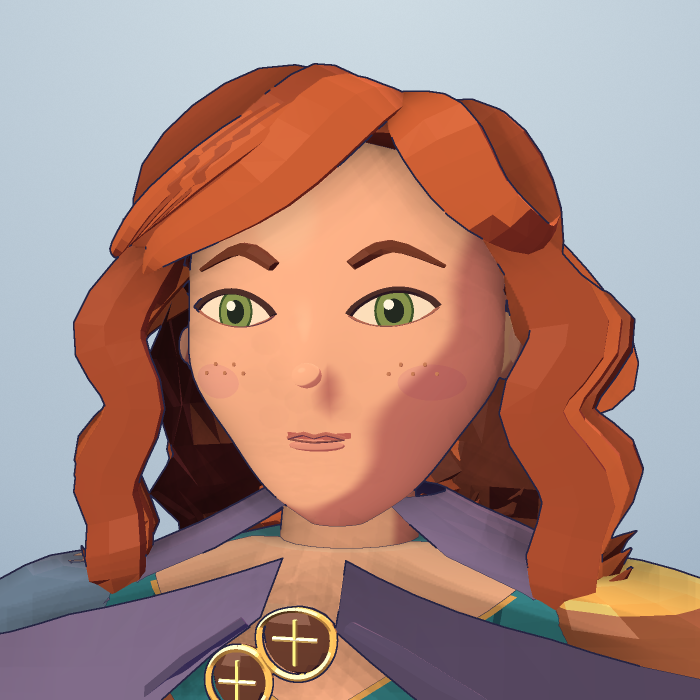
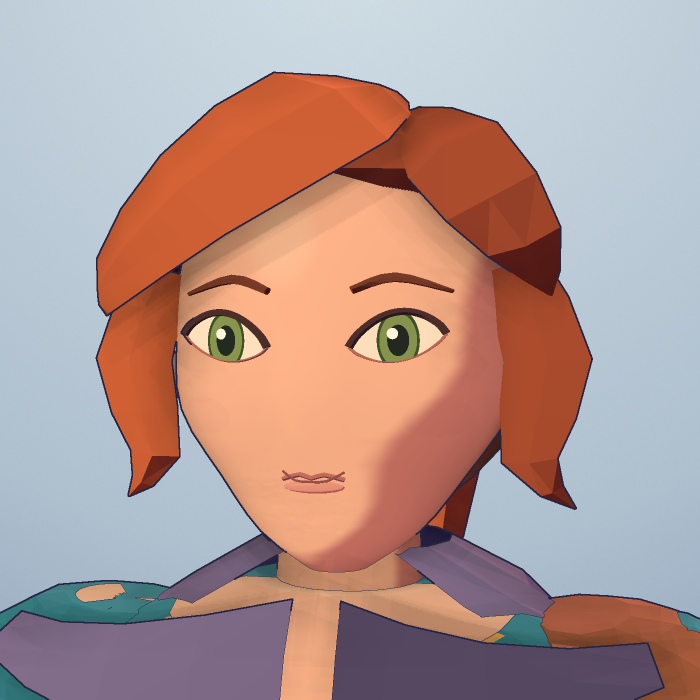
Simplify Prismatic Wanderer silhouette and add turnaround renders

diff --git a/art3d/wanderer.js b/art3d/wanderer.js
@@ -43,6 +43,10 @@ H3.body.build=function(o){
    if(m.v.length<250)m.v.forEach(p=>p[0]*=.96);
   }
   if(m.tag.startsWith("leg.")){m.pal=[{c:C.pants,mat:"cloth"},{c:"#565063",mat:"cloth",line:false}];m.paint=null;}
+  if(m.tag.startsWith("leg."))for(const p of m.v){
+   const side=p[0]<0?-1:1,cx=side*.095,w=.10*Math.exp(-(((p[1]-.37)/.085)**2));
+   p[0]=cx+(p[0]-cx)*(1+w);p[2]*=1+w;
+  }
   if(m.tag==="neck"){m.color=C.skin;m.pal=null;}
  }
  // Old cuff is a separate arm mesh, so discard it instead of leaving a ring of skin.
@@ -53,7 +57,6 @@ H3.body.build=function(o){
   pal:[{c:C.skin,mat:"skin"},{c:"#f1b995",mat:"skin",line:false},{c:C.rose,mat:"skin",line:false},{c:C.lip,mat:"skin",line:false}],
   paint:p=>{
    if(p[2]<.06)return 0;
-   if(Math.abs(p[0])<.026&&Math.abs(p[1]-(1.423+.09*Math.abs(p[0])))<.003)return 3;
    if(((Math.abs(p[0])-.09)/.025)**2+((p[1]-1.478)/.018)**2<1)return 2;
    return 0;
   }});
@@ -89,7 +92,7 @@ H3.body.build=function(o){
  }
  b.meshes.push(ell([0,1.416,.139],[.023,.006,.005],"#d18a76","head","head"));
  b.meshes.push(line([[-.023,1.423,.14],[-.009,1.428,.146],[0,1.425,.148],[.009,1.428,.146],[.023,1.423,.14]],.0022,"#ad6457","head","head"));
- b.meshes.push(line([[-.021,1.422,.141],[0,1.42,.15],[.021,1.422,.141]],.0011,"#854d45","head","head"));
+ b.meshes.push(line([[-.023,1.43,.141],[-.012,1.423,.149],[0,1.422,.15],[.012,1.423,.149],[.023,1.43,.141]],.0011,"#854d45","head","head"));
  // Eight sculpted hair masses: crown, back, two swept bangs, two temple locks, two tail pieces.
  const lock=(pts,widths,color,tag,bind)=>G.tube(pts.map((p,i)=>({p,rx:widths[i]*.44,ry:widths[i]})),
   {seg:5,steps:2,up:[0,0,1],tag,mat:"hair",color,bind:bind||"head",ink:false});
@@ -106,10 +109,10 @@ H3.body.build=function(o){
  for(const side of[-1,1])b.meshes.push(lock([[side*.14,1.62,.068],[side*.167,1.53,.067],[side*.153,1.435,.057],[side*.188,1.385,.031]],
   [.026,.035,.023,.001],side<0?C.copper:C.hair,"hair.back"));
  const tail="hair.ponytail";
- b.bones.push({name:tail,parent:"head",head:[.01,1.61,-.162],tail:[.03,1.30,-.22],spring:{stiff:85,drag:.3,grav:1,wind:.15,r:.008}});
- b.meshes.push(lock([[.005,1.63,-.153],[.036,1.64,-.236],[.068,1.51,-.257],[.055,1.35,-.225],[.012,1.275,-.182]],
+ b.bones.push({name:tail,parent:"head",head:[.01,1.61,-.162],tail:[.03,1.22,-.22],spring:{stiff:85,drag:.3,grav:1,wind:.15,r:.008}});
+ b.meshes.push(lock([[.005,1.63,-.153],[.036,1.64,-.236],[.068,1.51,-.257],[.055,1.30,-.225],[.012,1.195,-.182]],
   [.025,.075,.078,.045,.001],C.copper,"hair.back",tail));
- b.meshes.push(lock([[.018,1.64,-.175],[-.039,1.61,-.234],[-.042,1.46,-.25],[.012,1.325,-.212]],
+ b.meshes.push(lock([[.018,1.64,-.175],[-.039,1.61,-.234],[-.042,1.46,-.25],[.012,1.245,-.212]],
   [.021,.056,.049,.001],C.hair,"hair.back",tail));
  b.meshes.push(G.xform(G.loft([{y:-.012,rx:.037,rz:.032},{y:.012,rx:.037,rz:.032}],
   {seg:8,steps:1,tag:"hair.back",mat:"leather",color:C.leatherDark,bind:"head"}),{rx:Math.PI/2,t:[.012,1.61,-.18]}));
@@ -132,7 +135,7 @@ H3.gear.register({id:"wanderer_tunic",slot:"body",name:"Simple teal tunic",hides
  colors:{main:C.teal,sleeve:C.teal,trim:C.gold,belt:C.leather},
  build(ctx){
  const M=[],c=ctx.col,bind=from("torso"),gold=c("trim");
- M.push(G.loft(ctx.body.inflate(ctx.dims.rings.torso.filter(r=>r.y>=.66),.014),{seg:14,steps:2,name:"wanderer.bodice",mat:"cloth",bind,
+ M.push(G.loft(ctx.body.inflate(ctx.dims.rings.torso.filter(r=>r.y>=.88),.014),{seg:14,steps:2,name:"wanderer.bodice",mat:"cloth",bind,
   pal:[{c:c("main")},{c:gold,line:false},{c:C.skin,mat:"skin"}],
   paint:p=>{
    const v=1.20+Math.abs(p[0])*.55;
@@ -147,13 +150,17 @@ H3.gear.register({id:"wanderer_tunic",slot:"body",name:"Simple teal tunic",hides
   M.push(G.loft(keys,{seg:10,steps:2,name:"wanderer.sleeve",mat:"cloth",bind:from("arm."+S),
    pal:[{c:c("sleeve")},{c:gold,line:false}],paint:p=>p[1]<1.067?1:0}));
  }
+ // Trouser rise behind the open tunic slit, fitted to the same pelvis as the thighs.
+ M.push(G.loft(ctx.dims.rings.torso.filter(r=>r.y<=.88&&r.y>=.66),
+  {seg:14,steps:2,name:"wanderer.trouser.rise",mat:"cloth",color:C.pants,bind}));
  // A single flared shell, open at the centre front, makes the two short tabard tails.
  M.push(G.loft([{y:.90,rx:.194,rz:.143,e:2.5},{y:.77,rx:.218,rz:.153,e:2.5},{y:.625,rx:.256,rz:.17,e:2.4}],
   {seg:20,steps:2,open:y=>.035+.15*sstep(.90,.625,y),cap:false,twoSided:true,back:C.tealDark,
    name:"wanderer.skirt",mat:"cloth",bind, pal:[{c:c("main")},{c:gold,line:false}],
    paint:p=>{
-    const a=Math.abs(Math.atan2(p[0],p[2])),edge=.035+.15*sstep(.90,.625,p[1]);
-    return p[1]<.641||a<edge+.035?1:0;
+    const t=clamp((.9-p[1])/.275,0,1),rx=.194+.062*t,rz=.143+.027*t;
+    const a=Math.atan2(Math.abs(p[0]/rx)**1.23,Math.sign(p[2])*Math.abs(p[2]/rz)**1.23),edge=.035+.15*sstep(.90,.625,p[1]);
+    return p[1]<.641||a<edge+.06?1:0;
    }}));
  // One broad leather shoulder plate, a quiet edge, and a single mounting stud.
  M.push(G.loft([{y:1.27,rx:.041,rz:.067,cx:.19},{y:1.235,rx:.082,rz:.10,cx:.218},{y:1.135,rx:.10,rz:.102,cx:.262}],
@@ -211,11 +218,11 @@ H3.gear.register({id:"wanderer_cape",slot:"back",name:"Simple violet cloak",colo
   {seg:12,steps:1,open:y=>.5+(1.34-y)*5,cap:false,twoSided:true,back:c("fold"),name:"wanderer.hood.down",mat:"cloth",color:c("main"),bind}));
  // Broad triangles drape over the shoulders and meet at a round gold clasp.
  for(const side of[-1,1])M.push(G.sheet((u,v)=>{
-  const x=side*(.018+.216*u),y=1.305-.105*u-v*(.105-.055*u);
+  const x=side*(.018+.216*u),y=1.31-.03*u-v*(.11-.085*u);
   return[x,y,.12+.055*Math.sin(u*Math.PI)+.045*v];
  },4,2,{name:"wanderer.mantle",mat:"cloth",color:c("main"),back:c("fold"),bind}));
- M.push(ell([0,1.228,.17],[.018,.018,.009],c("trim"),bind,"wanderer.clasp","gold"));
- M.push(ell([0,1.228,.18],[.009,.009,.003],C.goldLight,bind,"wanderer.clasp.inset","gold"));
+ M.push(ell([0,1.205,.17],[.018,.018,.009],c("trim"),bind,"wanderer.clasp","gold"));
+ M.push(ell([0,1.205,.18],[.009,.009,.003],C.goldLight,bind,"wanderer.clasp.inset","gold"));
  return{meshes:M,bones};
 }});
 

diff --git a/art3d/index.html b/art3d/index.html
@@ -28,7 +28,7 @@
   <div>
     <a href="../index.html" style="color:var(--accent)">← Back to game</a>
     <h1>Prismatic Wanderer</h1>
-    <p>Drag to turn, scroll to zoom. <a href="reference/prismatic-wanderer-female-v1.png" style="color:var(--accent)" target="_blank" rel="noopener">View the character sheet ↗</a></p>
+    <p>Drag to turn, scroll to zoom. <a href="reference/prismatic-simplified-heroes-v1.png" style="color:var(--accent)" target="_blank" rel="noopener">View the simplified character sheet ↗</a></p>
     <div class="stage"><canvas id="c" width="760" height="1000"></canvas><div class="hud" id="hud"></div></div>
     <div class="row">
       <button data-y="0">front</button><button data-y="0.6">3/4</button><button data-y="1.57">side</button>

diff --git a/art3d/hero.js b/art3d/hero.js
@@ -66,6 +66,12 @@ H3.hero.build=function(loadout,o){
   const variant=o.variant||"male";
   if(!["male","female"].includes(variant))throw new Error("unknown body variant "+variant);
   if(variant==="female"){
+    // The simplified turnaround uses an open A-pose and a slightly wider stance.
+    for(const [side,sign] of [["L",1],["R",-1]]){
+      const arm=hints.r["upperarm."+side]||[0,0,0];
+      hints.r["upperarm."+side]=[arm[0],arm[1],arm[2]+sign*.15];
+      hints.r["thigh."+side]=[0,0,sign*.035];
+    }
     // Apply one continuous rest-space profile to the assembled outfit and skeleton.
     // Binding is done first so clothing keeps the same weights as the body beneath it.
     const fit=H3.wanderer.profile;

diff --git a/art3d/README.md b/art3d/README.md
@@ -1,5 +1,13 @@
 # art3d — the 3D hero
 
+The default female Prismatic model now follows the [simplified hero board](reference/prismatic-simplified-heroes-v1.png): compact proportions, eight broad copper hair masses with a ponytail, mitten gloves, a short two-panel teal tunic, plain gold borders, cuffed boots and a three-fold violet cloak. The breast and cloak compasses are painted decoration. It retains the shared rig, gear slots and animation clips. `prismatic_under_cape` shows the outfit construction; `prismatic_armed` adds the sword.
+
+Current renders: [turnaround](../art-evidence/prismatic-wanderer-turnaround.png), [without cape](../art-evidence/prismatic-wanderer-under-cape.png), [face](../art-evidence/prismatic-wanderer-face.png).
+
+```sh
+node tools/hero3d-shot.js --preset prismatic --variant female --views --pitch 0
+```
+
 An exploratory, dependency-free 3D version of the Everforge hero. It has:
 
 - a base body with no equipment

diff --git a/art-evidence/README.md b/art-evidence/README.md
@@ -9,6 +9,8 @@ Captured from the repository's SVG renderers in Chromium at the sizes used by th
 
 ## 3D hero (exploratory, `art3d/`)
 
+The current simplified Prismatic Wanderer is shown in the [front / three-quarter / side / back turnaround](prismatic-wanderer-turnaround.png), [cape-free turnaround](prismatic-wanderer-under-cape.png) and [face close-up](prismatic-wanderer-face.png). These are actual geometry renders against `prismatic-simplified-heroes-v1.png`, using `--preset prismatic --variant female` (or `prismatic_under_cape`). Earlier hero images below document the previous models.
+
 Rendered in Node with `node tools/hero3d-shot.js --evidence`, using the dependency-free software renderer. See [art3d/README.md](../art3d/README.md).
 
 - [Base hero turnaround](hero3d-base.png): the unequipped body in front, 3/4, side and back views. It shows the face, hair, linen undershirt, waist tie, wrapped shins and mitten hands, in the rest pose.
